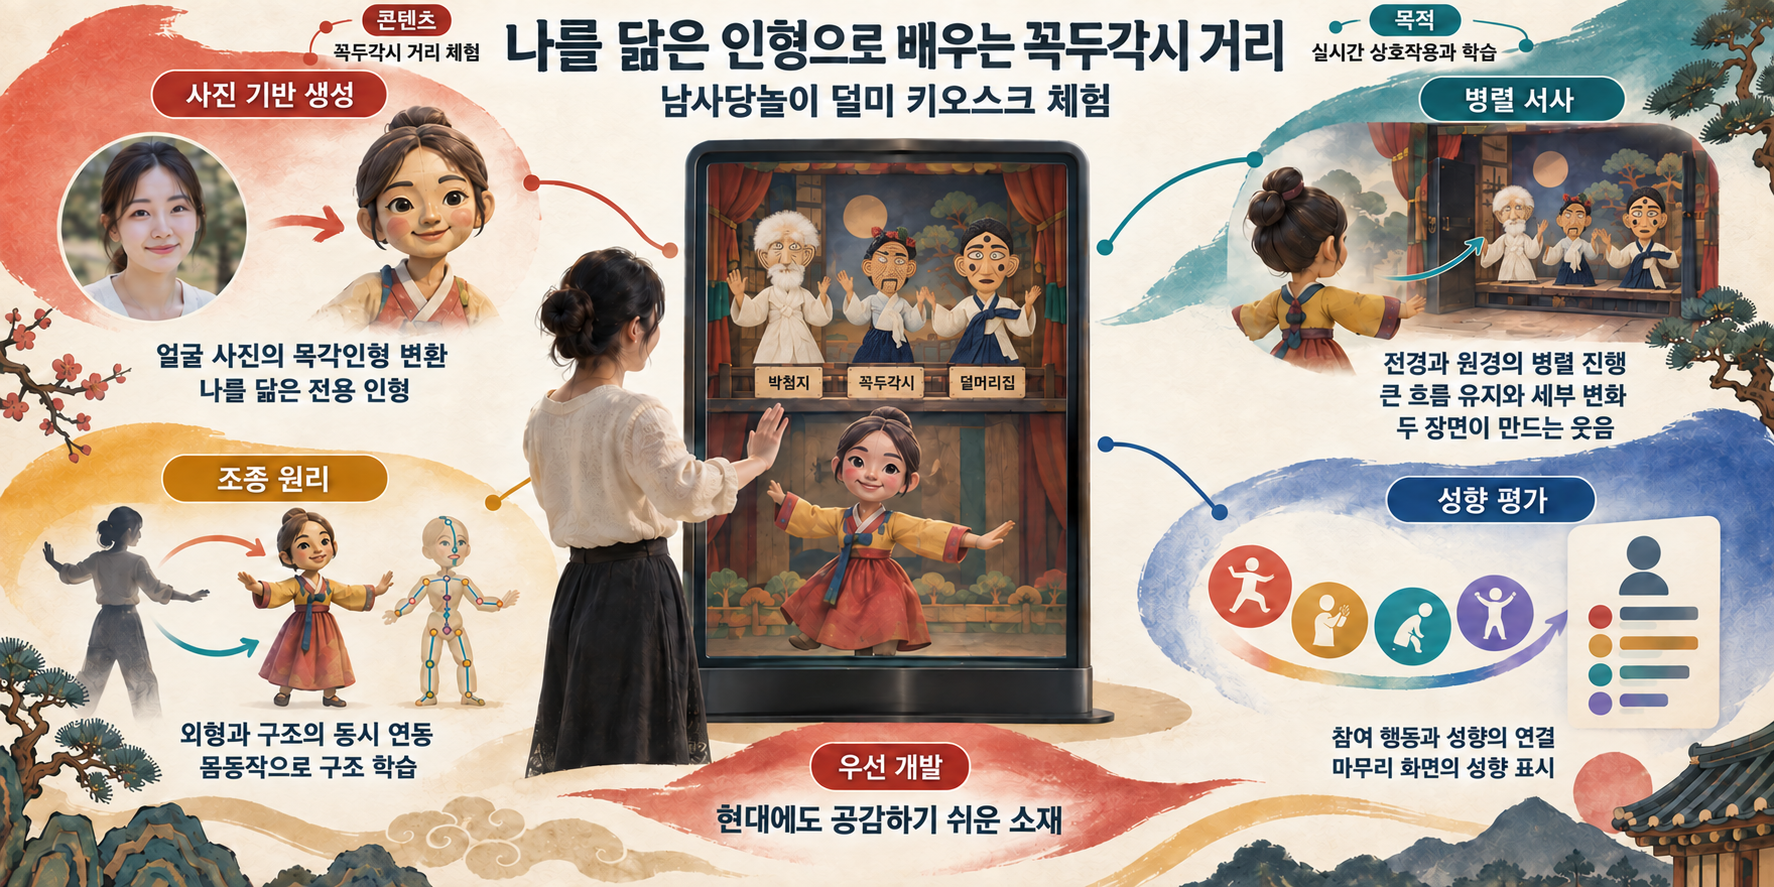
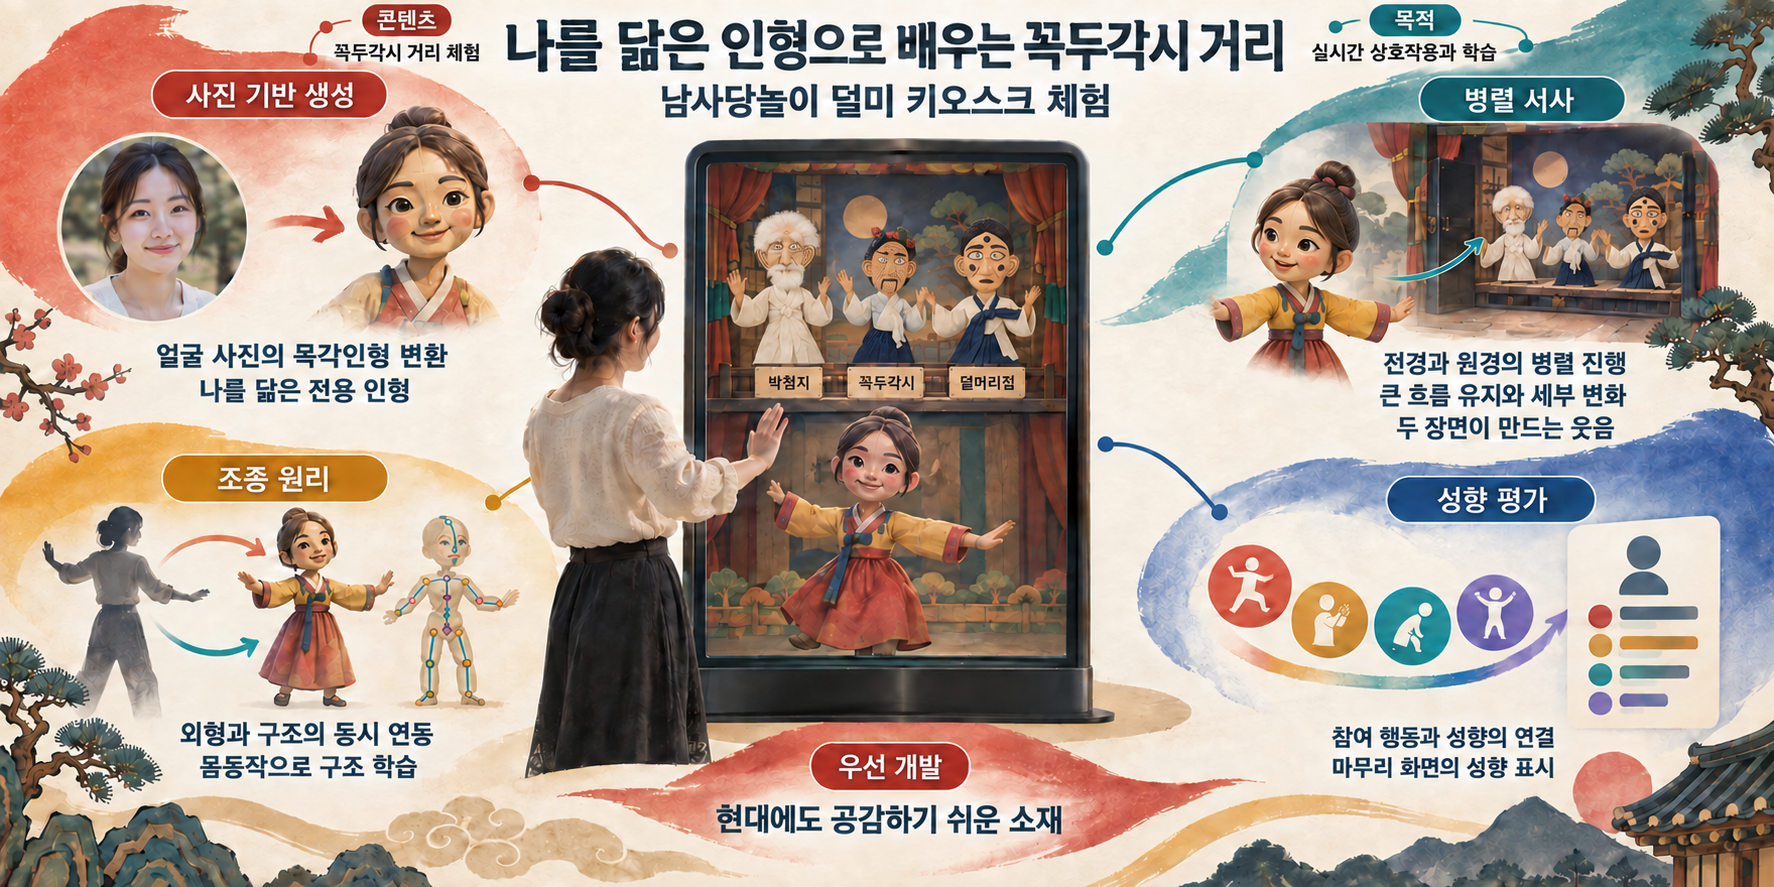
update: 병렬 서사 유저 인형 방향 교정

diff --git a/99_Logs/2026/2026년 9월 작업 로그.md b/99_Logs/2026/2026년 9월 작업 로그.md
@@ -9,6 +9,16 @@ updated: 2026-09-21
 
 # 2026년 9월 작업 로그
 
+## [2026-09-21] update | 꼭두각시 개요 인포그래픽의 유저 인형 방향 교정
+
+- 사용자가 정정한 대상인 `assets/시범콘텐츠/꼭두각시/꼭두각시_개요_인포그래픽_v4.png`를 편집하고 v3는 변경하지 않음
+- 우상단 `병렬 서사` 그림의 전경 유저 인형이 무대를 바라보던 자세를 반대로 돌려 무대를 등지게 함. 머리만 뒤로 꺾이지 않도록 머리, 목, 어깨와 몸통이 같은 방향을 향하게 교정함
+- 기본 이미지 생성 편집 도구의 국소 객체 편집을 사용하고, 무대와 무대 위 인형 3명, 화살표, 다른 도해와 모든 문구는 유지하도록 제한함
+- 최종 파일은 원본과 같은 1,774×887px이며, 다시 열어 유저 인형의 목과 몸 방향이 자연스럽고 무대를 등지는지 확인함. 눈에 보이는 문구 손상, 잘림이나 다른 도해의 구성 변경은 없음
[1 lines of base64/hex data omitted]
+- G1 판정: 외부 노출 이미지 변경으로 사용자 확인 대기
+- 수정 파일: `assets/시범콘텐츠/꼭두각시/꼭두각시_개요_인포그래픽_v4.png`, `99_Logs/2026/2026년 9월 작업 로그.md`
+
 ## [2026-09-21] query | 나만의 꼭두각시 얼굴 캡처의 세션 데이터 범위 검토
 
 - `덜미 - 나만의 꼭두각시 기획서.md`의 세션 데이터와 얼굴 촬영부터 아바타 생성까지의 처리 수명을 대조함
